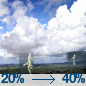
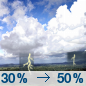
wire: 2026-09-09 RSA-0909-WIRE-56 + first sports/weather siblings

Changed region(s): [[0.0, 0.814, 1.0, 0.9767], [0.5814, 0.9535, 0.6047, 0.9767]]

diff --git a/wire.html b/wire.html
@@ -129,18 +129,18 @@
     <header class="mast" id="top">
       <h1>RESOLUTE <em>Wire</em></h1>
       <p class="dek">National, global, and tech briefing for citizens and pastors. Civic week lives on RESOLUTE Local. Sports and weather have their own pages.</p>
-      <div class="meta">Monday, September 7, 2026 · PM edition · Rush Sullivan · RSA-0907-WIRE-53</div>
+      <div class="meta">Wednesday, September 9, 2026 · AM edition · Rush Sullivan · RSA-0909-WIRE-56</div>
     </header>
     <article class="hero">
       <div class="hero-media">
         <img src="assets/wire/dvids-9872029-lincoln-f35c-1000w.jpg" alt="">
-        <div class="hero-credit">U.S. Navy photo · DVIDS 9872029 · Public domain · An F-35C launches from USS Abraham Lincoln (CVN-72).</div>
+        <div class="hero-credit">U.S. Navy photo · DVIDS 9872029 · Public domain · An F-35C Lightning II on USS Abraham Lincoln (CVN 72), Aug. 11, 2026.</div>
       </div>
       <div class="hero-body">
         <span class="chip">USNI News</span>
-        <h2><a href="https://news.usni.org/2026/09/07/hung-cao-needs-house-senate-waivers-for-secnav-confirmation" target="_blank" rel="noopener">USNI: Hung Cao needs House and Senate waivers to be confirmed as SECNAV</a></h2>
-        <p class="insight">USNI News, Monday: Acting Secretary of the Navy Hung Cao needs a congressional waiver from both chambers to be eligible for confirmation as the permanent Navy secretary. Service-secretary law requires a cooling-off period after leaving active duty; Cao’s clock still needs those two votes.</p>
-        <div class="src">USNI News · <a href="https://news.usni.org/2026/09/07/hung-cao-needs-house-senate-waivers-for-secnav-confirmation" target="_blank" rel="noopener">Read source →</a></div>
+        <h2><a href="https://news.usni.org/2026/09/08/usni-news-fleet-and-marine-tracker-sept-8-2026" target="_blank" rel="noopener">USNI: Fleet and Marine Tracker for Sept. 8</a></h2>
+        <p class="insight">USNI News, Tuesday: the weekly tracker plots approximate positions of deployed U.S. carrier strike groups and amphibious ready groups as of Sept. 8, 2026, from Navy and public data. When a group is disaggregated, the chart uses the capital ship.</p>
+        <div class="src">USNI News · <a href="https://news.usni.org/2026/09/08/usni-news-fleet-and-marine-tracker-sept-8-2026" target="_blank" rel="noopener">Read source →</a></div>
       </div>
     </article>
     <section class="rails" aria-label="Channel rails">
@@ -148,24 +148,24 @@
         <h3>Political</h3>
         <article class="item no-media">
           <div>
-            <h4><a href="https://news.usni.org/2026/09/07/u-s-navy-trials-robotic-towed-connector-to-refuel-usv" target="_blank" rel="noopener">USNI: Navy trials a robotic towed connector to refuel a USV</a></h4>
-            <p>USNI News, Monday: the Navy trialled a robotic towed connector last month to capture, refuel, and release an unmanned surface vessel, aiming at longer unmanned time at sea. The write-up cites an August 11 trial and a Tuesday command release.</p>
+            <h4><a href="https://news.usni.org/2026/09/08/north-korea-commissions-second-in-class-destroyer" target="_blank" rel="noopener">USNI: North Korea commissions a second Choe Hyon-class destroyer</a></h4>
+            <p>USNI News, Tuesday: Pyongyang commissioned Kang Kon (52) at Wonsan, with Kim Jong Un overseeing the ceremony, according to KCNA as reported by USNI.</p>
             <div class="who">USNI News</div>
           </div>
           
         </article>
         <article class="item no-media">
           <div>
-            <h4><a href="https://news.usni.org/2026/09/07/report-to-congress-on-u-s-air-force-fighter-force-structure" target="_blank" rel="noopener">USNI posts the CRS fighter-force structure report for Congress</a></h4>
-            <p>USNI News, Monday: the desk posted the Sept. 4 Congressional Research Service report on Air Force fighter force structure — inventory mix, missions, and issues for Congress. It is a document drop, not a new buy decision.</p>
-            <div class="who">USNI News</div>
+            <h4><a href="https://www.defensenews.com/news/your-military/2026/09/09/iran-says-it-captured-us-submarine-drone-in-strait-of-hormuz/" target="_blank" rel="noopener">Defense News: Iran says it captured a U.S. uncrewed submersible</a></h4>
+            <p>Defense News, Wednesday: Iran’s Revolutionary Guards said Tuesday they captured a U.S. uncrewed submarine at the entrance to the Strait of Hormuz. The Pentagon said the craft had malfunctioned more than a day earlier.</p>
+            <div class="who">Defense News</div>
           </div>
           
         </article>
         <article class="item no-media">
           <div>
-            <h4><a href="https://www.defensenews.com/news/pentagon-congress/2026/09/05/ukraine-asks-eu-to-fund-first-pac-3-patriot-buy/" target="_blank" rel="noopener">Defense News: Ukraine asked the EU to fund its first PAC-3 Patriot buy</a></h4>
-            <p>Defense News, Saturday: Kyiv asked to tap a €90 billion EU support loan for PAC-3 interceptors. Because the missiles are U.S.-built, the purchase needs an exemption from the loan’s non-EU content cap. The Commission said the review was moving into this week.</p>
+            <h4><a href="https://www.defensenews.com/global/europe/2026/09/09/ukrainian-industry-scrambles-to-field-interceptors-against-russian-jet-drones/" target="_blank" rel="noopener">Defense News: Ukraine races faster interceptor drones</a></h4>
+            <p>Defense News, Wednesday: Ukrainian firms are pushing interceptor drones to keep up with Russian jet-powered drones. The piece is industry reporting, not a signed U.S. order.</p>
             <div class="who">Defense News</div>
           </div>
           
@@ -176,16 +176,16 @@
         <article class="item no-media">
           <div>
             <h4><a href="https://www.heritage.org/technology/commentary/china-working-against-us-data-centers" target="_blank" rel="noopener">Heritage: China is working the U.S. fight over AI data centers</a></h4>
-            <p>Heritage Foundation, Thursday: the essay says CCP-linked actors have amplified U.S. local fights over AI data centers, treating power prices and siting fights as a way to slow American compute. It is commentary, not a new statute.</p>
+            <p>Heritage Foundation: the essay says CCP-linked actors have amplified U.S. local fights over AI data centers, treating power prices and siting fights as a way to slow American compute. It is commentary, not a new statute.</p>
             <div class="who">Heritage Foundation</div>
           </div>
           
         </article>
         <article class="item no-media">
           <div>
-            <h4><a href="https://blogs.nvidia.com/blog/local-ai-ifa-next-gen-agents-nv-pair-rtx-spark/" target="_blank" rel="noopener">NVIDIA at IFA: local agents, PAIR routing, RTX Spark in October</a></h4>
-            <p>NVIDIA vendor post from IFA: local agents get simpler setup on RTX hardware, RTX Spark Windows PCs arrive in October, and NVIDIA PAIR can route inference across idle PCs.</p>
-            <div class="who">NVIDIA</div>
+            <h4><a href="https://lawliberty.org/forum/hearts-minds-and-dollar-signs/" target="_blank" rel="noopener">Law &amp; Liberty: hearts, minds, and dollar signs</a></h4>
+            <p>Law &amp; Liberty, Wednesday: aspiring builders do have a problem, the essay says, but democracy is not it. Forum piece, not a bill.</p>
+            <div class="who">Law &amp; Liberty</div>
           </div>
           
         </article>
@@ -194,16 +194,16 @@
         <h3>Culture</h3>
         <article class="item no-media">
           <div>
-            <h4><a href="https://lawliberty.org/book-review/liberal-education-worthy-of-the-name/" target="_blank" rel="noopener">Law &amp; Liberty: a liberal education worthy of the name</a></h4>
-            <p>Law &amp; Liberty, Monday: Daniel J. Mahoney reviews Harvey Mansfield’s long fight for academic rigor at Harvard. The piece is a book essay, not a campus incident report.</p>
-            <div class="who">Law &amp; Liberty</div>
+            <h4><a href="https://truthscript.com/church/the-curse-of-fame/" target="_blank" rel="noopener">TruthScript: the curse of fame</a></h4>
+            <p>TruthScript, Tuesday: the essay tracks how celebrity often ends in suicide, alcohol, or overdose, and treats fame as a spiritual hazard rather than a prize.</p>
+            <div class="who">TruthScript</div>
           </div>
           
         </article>
         <article class="item no-media">
           <div>
-            <h4><a href="https://lawliberty.org/the-argument-we-forgot-how-to-have/" target="_blank" rel="noopener">Law &amp; Liberty: the argument we forgot how to have</a></h4>
-            <p>Law &amp; Liberty, Monday: American free-expression doctrine is younger than most people think. The piece traces an older legal tradition that handled speech problems the modern First Amendment still debates.</p>
+            <h4><a href="https://lawliberty.org/adjudicating-history-and-tradition/" target="_blank" rel="noopener">Law &amp; Liberty: adjudicating history and tradition</a></h4>
+            <p>Law &amp; Liberty, Wednesday: a Massachusetts case is used to warn against abuses of history in legal rulings. Essay, not a Supreme Court opinion.</p>
             <div class="who">Law &amp; Liberty</div>
           </div>
           
@@ -220,7 +220,7 @@
     </section>
     <section class="watch">
       <h3>Watch</h3>
-      <ul><li><a href="https://blogs.nvidia.com/blog/nvidia-to-acquire-hugging-face/" target="_blank" rel="noopener">NVIDIA’s Hugging Face purchase stays a closing process</a> </li></ul>
+      <ul><li><a href="https://www.defensenews.com/global/asia-pacific/2026/09/09/south-korea-supercharges-defense-budget-to-record-levels/" target="_blank" rel="noopener">South Korea’s record defense budget sits off the fold</a> </li></ul>
     </section>
     <section class="dock">
       <a href="sports.html"><div class="k">Texas desk</div><div class="t">Sports</div><div class="d">Texans, Astros, Rockets — character and the score.</div></a>

diff --git a/weather.html b/weather.html
@@ -125,7 +125,7 @@
     <header class="mast" id="top">
       <h1>RESOLUTE <em>Weather</em></h1>
       <p class="dek">Fredericksburg, Virginia — National Weather Service. Readiness, not climate talk.</p>
-      <div class="meta">Monday, September 7, 2026 · PM edition</div>
+      <div class="meta">Wednesday, September 9, 2026 · AM edition</div>
     </header>
     <article class="hero">
       <div class="hero-media">
@@ -134,15 +134,15 @@
       </div>
       <div class="hero-body">
         <span class="chip">NWS / Readiness</span>
-        <h2>No active watches. Labor Day sunny, 84.</h2>
-        <p class="insight">NWS has no active watches or warnings on the Fredericksburg point. Remainder of Labor Day: sunny, high near 84, southeast wind around 3 mph. Tonight: mostly clear, low around 59. Tuesday: mostly sunny, 87.</p>
+        <h2>No active watches. Sunny, 88.</h2>
+        <p class="insight">NWS has no active watches or warnings on the Fredericksburg point. Today: sunny, high near 88. Tonight: mostly clear, low around 71. Thursday: mostly sunny, then a chance of storms, high 91.</p>
         <div class="src">Alerts: No watch or warning is up. · <a href="https://forecast.weather.gov/MapClick.php?lat=38.3032&amp;lon=-77.4605" target="_blank" rel="noopener">NWS forecast →</a></div>
-        <ul class="actions"><li>No active watches or warnings</li><li>Labor Day remainder: sunny, 84</li><li>Tonight 59; Tuesday mostly sunny, 87</li></ul>
+        <ul class="actions"><li>No active watches or warnings</li><li>Today: sunny, 88</li><li>Tonight 71; Thursday storms possible, 91</li></ul>
       </div>
     </article>
     <section class="watch">
       <h3>Forecast</h3>
-      <div class="period"><img class="period-icon" src="assets/weather/nws-today-few.png" alt=""><div><strong>Labor Day</strong><p class="insight">Sunny, with a high near 84. Southeast wind around 3 mph.</p></div></div><div class="period"><img class="period-icon" src="assets/weather/nws-tonight-few.png" alt=""><div><strong>Tonight</strong><p class="insight">Mostly clear, with a low around 59. Southwest wind around 3 mph.</p></div></div><div class="period"><img class="period-icon" src="assets/weather/nws-tuesday-sct.png" alt=""><div><strong>Tuesday</strong><p class="insight">Mostly sunny, with a high near 87. South wind 1 to 5 mph.</p></div></div><div class="period"><img class="period-icon" src="assets/weather/nws-tuesday-night-sct.png" alt=""><div><strong>Tuesday Night</strong><p class="insight">Partly cloudy, with a low around 62.</p></div></div>
+      <div class="period"><img class="period-icon" src="assets/weather/nws-today-few.png" alt=""><div><strong>Today</strong><p class="insight">Sunny, with a high near 88. South wind 5 to 10 mph.</p></div></div><div class="period"><img class="period-icon" src="assets/weather/nws-tonight-few.png" alt=""><div><strong>Tonight</strong><p class="insight">Mostly clear, with a low around 71. South wind around 9 mph, with gusts as high as 20 mph.</p></div></div><div class="period"><img class="period-icon" src="assets/weather/nws-thursday-tsra.png" alt=""><div><strong>Thursday</strong><p class="insight">A chance of showers and thunderstorms between 3pm and 5pm, then a slight chance of showers and thunderstorms. Mostly sunny, with a high near 91. West wind around 8 mph. Chance of precipitation is 40%.</p></div></div><div class="period"><img class="period-icon" src="assets/weather/nws-thursday-night-tsra.png" alt=""><div><strong>Thursday Night</strong><p class="insight">A chance of showers and thunderstorms between 7pm and 8pm, then showers and thunderstorms. Mostly cloudy, with a low around 68. Northwest wind 0 to 6 mph. Chance of precipitation is 80%.</p></div></div>
       
     </section>
     <section class="dock">

diff --git a/sports.html b/sports.html
@@ -125,7 +125,7 @@
     <header class="mast" id="top">
       <h1>RESOLUTE <em>Sports</em></h1>
       <p class="dek">Texas desk — Texans, Astros, Rockets. Character and the score, not celebrity.</p>
-      <div class="meta">Monday, September 7, 2026 · PM edition</div>
+      <div class="meta">Wednesday, September 9, 2026 · AM edition</div>
     </header>
     <article class="hero">
       <div class="hero-media">
@@ -144,15 +144,15 @@
         <article class="item">
           <div>
             <h4><a href="https://www.houstontexans.com/schedule/" target="_blank" rel="noopener">Texans host the Bills on Sept. 13 at NRG</a></h4>
-            <p>Houston’s club site: Week 1 is Texans vs. Bills at Reliant/NRG on September 13, 1 p.m. on CBS. Preseason is closed.</p>
+            <p>Houston’s club schedule page: Week 1 is Texans vs. Bills at Reliant/NRG on September 13.</p>
             <div class="who">Houston Texans</div>
           </div>
           <div class="thumb"><img src="assets/sports/nrg-reliant-interior.jpg" alt=""></div>
         </article>
         <article class="item">
           <div>
-            <h4><a href="https://www.mlb.com/astros/schedule" target="_blank" rel="noopener">Astros slate is on the club schedule page</a></h4>
-            <p>MLB.com / Astros schedule: use the club page for today’s opponent, first pitch, and the live score.</p>
+            <h4><a href="https://www.mlb.com/astros/schedule" target="_blank" rel="noopener">Astros schedule — club page for opponent and first pitch</a></h4>
+            <p>Use the Astros / MLB.com schedule page for opponent, first pitch, and the live score. The club page is the score source.</p>
             <div class="who">MLB.com / Houston Astros</div>
           </div>
           <div class="thumb"><img src="assets/sports/daikin-minute-maid-2010.jpg" alt=""></div>
